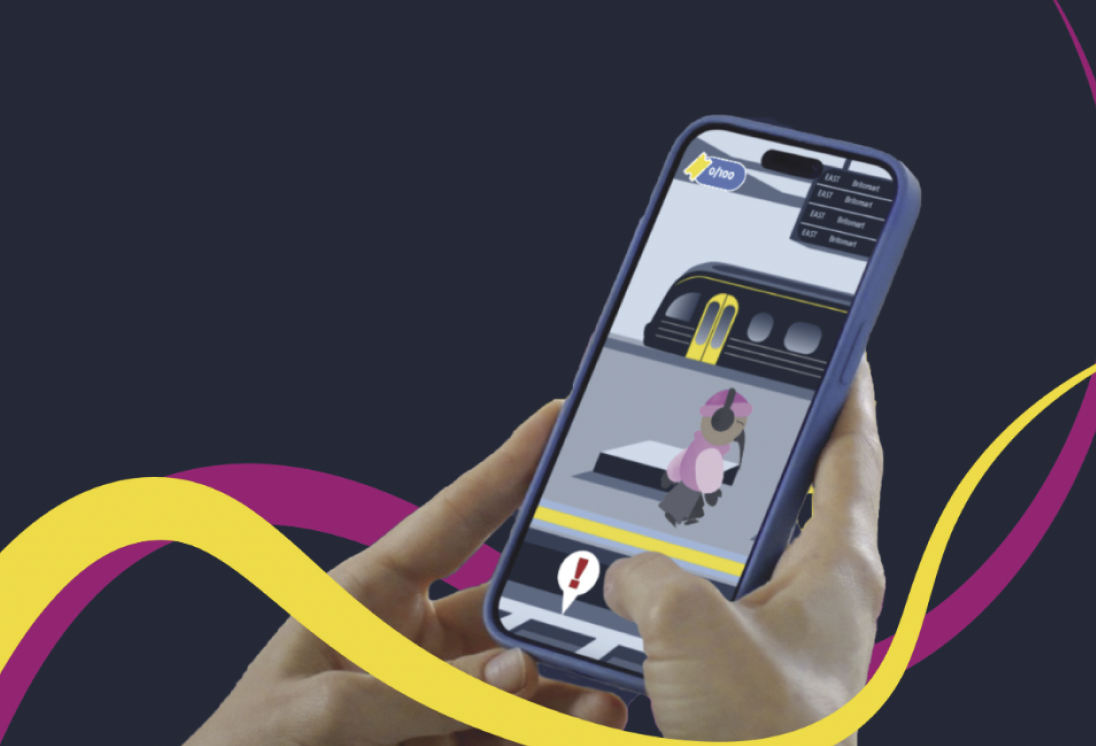
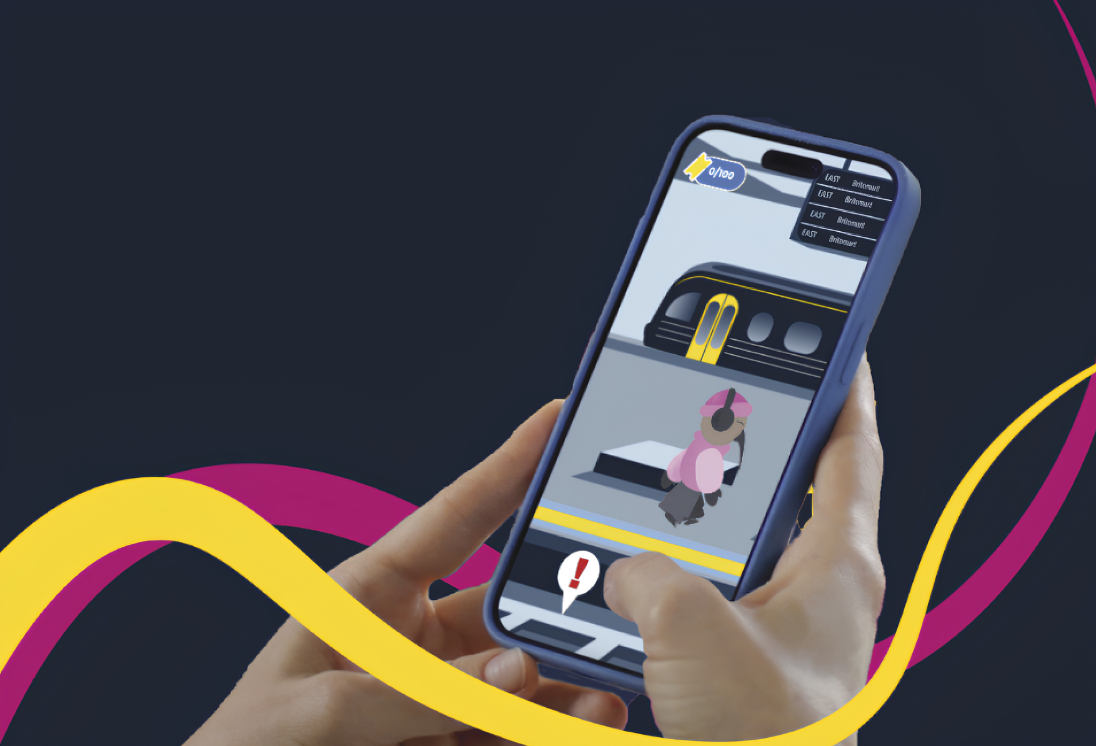
About photos
Adding photos on my about page

diff --git a/about.html b/about.html
@@ -81,6 +81,9 @@
     <div class="facts-card" style="margin-bottom: var(--gap);">
 
         <div class="fact-item">
+            <div class="fact-photo-wrap">
+                <img src="assets/cat.png" alt="Tabby cat" class="fact-photo" />
+            </div>
             <div class="fact-emoji">🐈</div>
             <div class="fact-title">Pet lover</div>
             <p class="fact-desc">I have one very friendly and slightly crazy tabby cat.</p>
@@ -89,6 +92,9 @@
         <div class="fact-divider"></div>
 
         <div class="fact-item">
+            <div class="fact-photo-wrap">
+                <img src="assets/travel.png" alt="Travel" class="fact-photo" />
+            </div>
             <div class="fact-emoji">✈</div>
             <div class="fact-title">Traveler</div>
             <p class="fact-desc">I love exploring new countries and cultures.</p>
@@ -97,6 +103,9 @@
         <div class="fact-divider"></div>
 
         <div class="fact-item">
+            <div class="fact-photo-wrap">
+                <img src="assets/walk.png" alt="Hiking" class="fact-photo" />
+            </div>
             <div class="fact-emoji">🥾</div>
             <div class="fact-title">Outdoors</div>
             <p class="fact-desc">You'll often find me doing hikes on the weekends.</p>

diff --git a/style.css b/style.css
@@ -755,7 +755,7 @@ nav {
   display: flex;
   flex-direction: column;
   gap: 12px;
-  min-height: 290px;
+  min-height: 250px;
 }
 
 .value-name {
@@ -783,7 +783,7 @@ nav {
   gap: var(--gap);
   opacity: 0;
   animation: fadeUp 0.6s ease forwards 0.35s;
-  min-height: 290px;
+  min-height: 430px;
 }
 
 .fact-item {
@@ -804,7 +804,6 @@ nav {
 .fact-emoji {
   font-size: 24px;
   line-height: 1;
-  margin-bottom: 12px;
 }
 
 .fact-title {
@@ -827,6 +826,26 @@ nav {
   background: var(--cream-mid);
   align-self: stretch;
   margin: 0 8px;
+}
+
+.fact-photo-wrap {
+    width: 100%;
+    height: 220px;
+    margin-bottom: 1rem;
+    border-radius: 8px;
+    overflow: hidden;
+}
+
+.fact-item:hover .fact-photo-wrap {
+    transform: rotate(0.5deg) scale(1.02);
+    transition: transform 0.4s ease;
+}
+
+.fact-photo {
+    width: 100%;
+    height: 100%;
+    object-fit: cover;
+    display: block;
 }
 
 /* ── LOCATION BOX ── */

diff --git a/metro.html b/metro.html
@@ -84,10 +84,10 @@
 
     <div class="cs-outcome-images-grid">
       <div class="cs-outcome-img cs-outcome-img--app1">
-        <img src="assets/metro-app1.webp" alt="Gameplay screens" />
+        <img src="assets/metro-app2.webp" alt="Gameplay screens" />
       </div>
       <div class="cs-outcome-img cs-outcome-img--app2">
-        <img src="assets/metro-app2.webp" alt="Character choice" />
+        <img src="assets/metro-app1.webp" alt="Character choice" />
       </div>
     </div>
 
